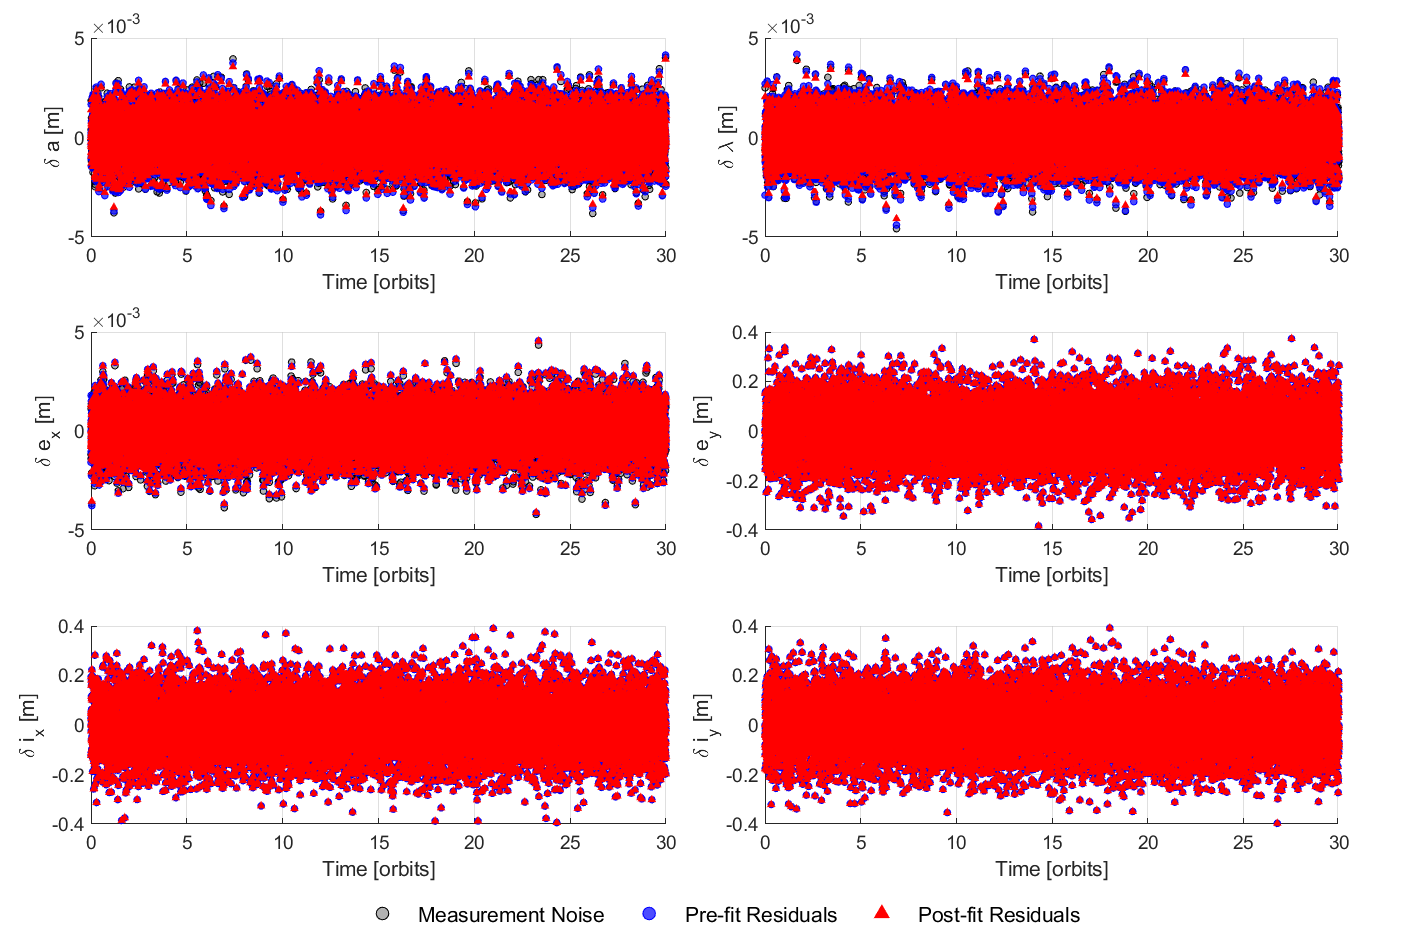
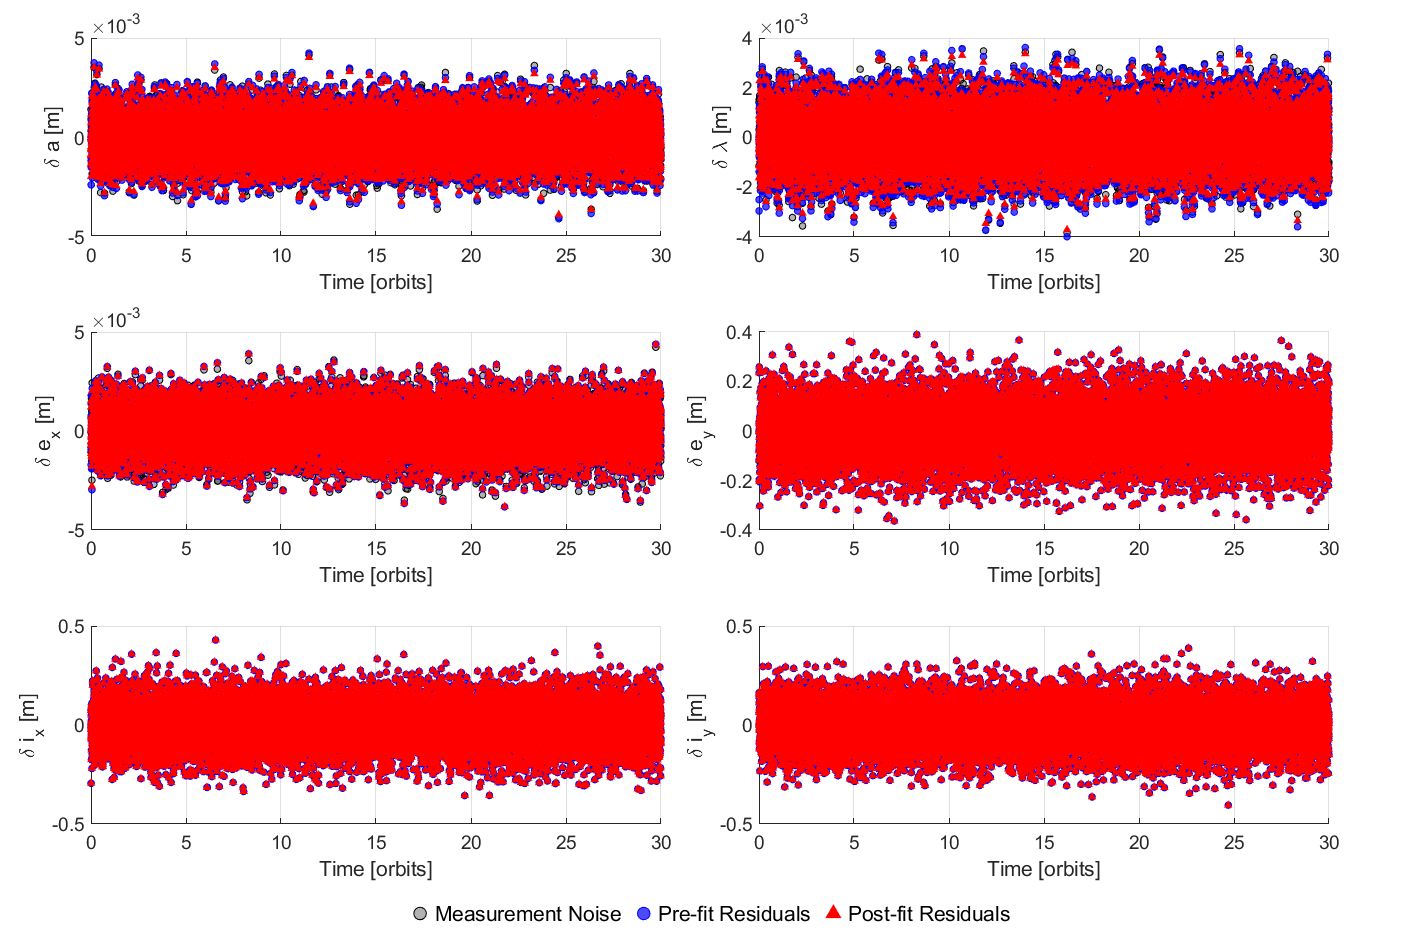
bleh

diff --git a/sim/sim_main.m b/sim/sim_main.m
@@ -21,8 +21,8 @@ run_PS4 = false;
 run_PS5 = false;
 run_PS6 = false; 
 run_PS7 = false;
-run_PS8 = true;
-run_PS9 = false;
+run_PS8 = false;
+run_PS9 = true;
 
 % Load SV1 information
 load_SV1;
